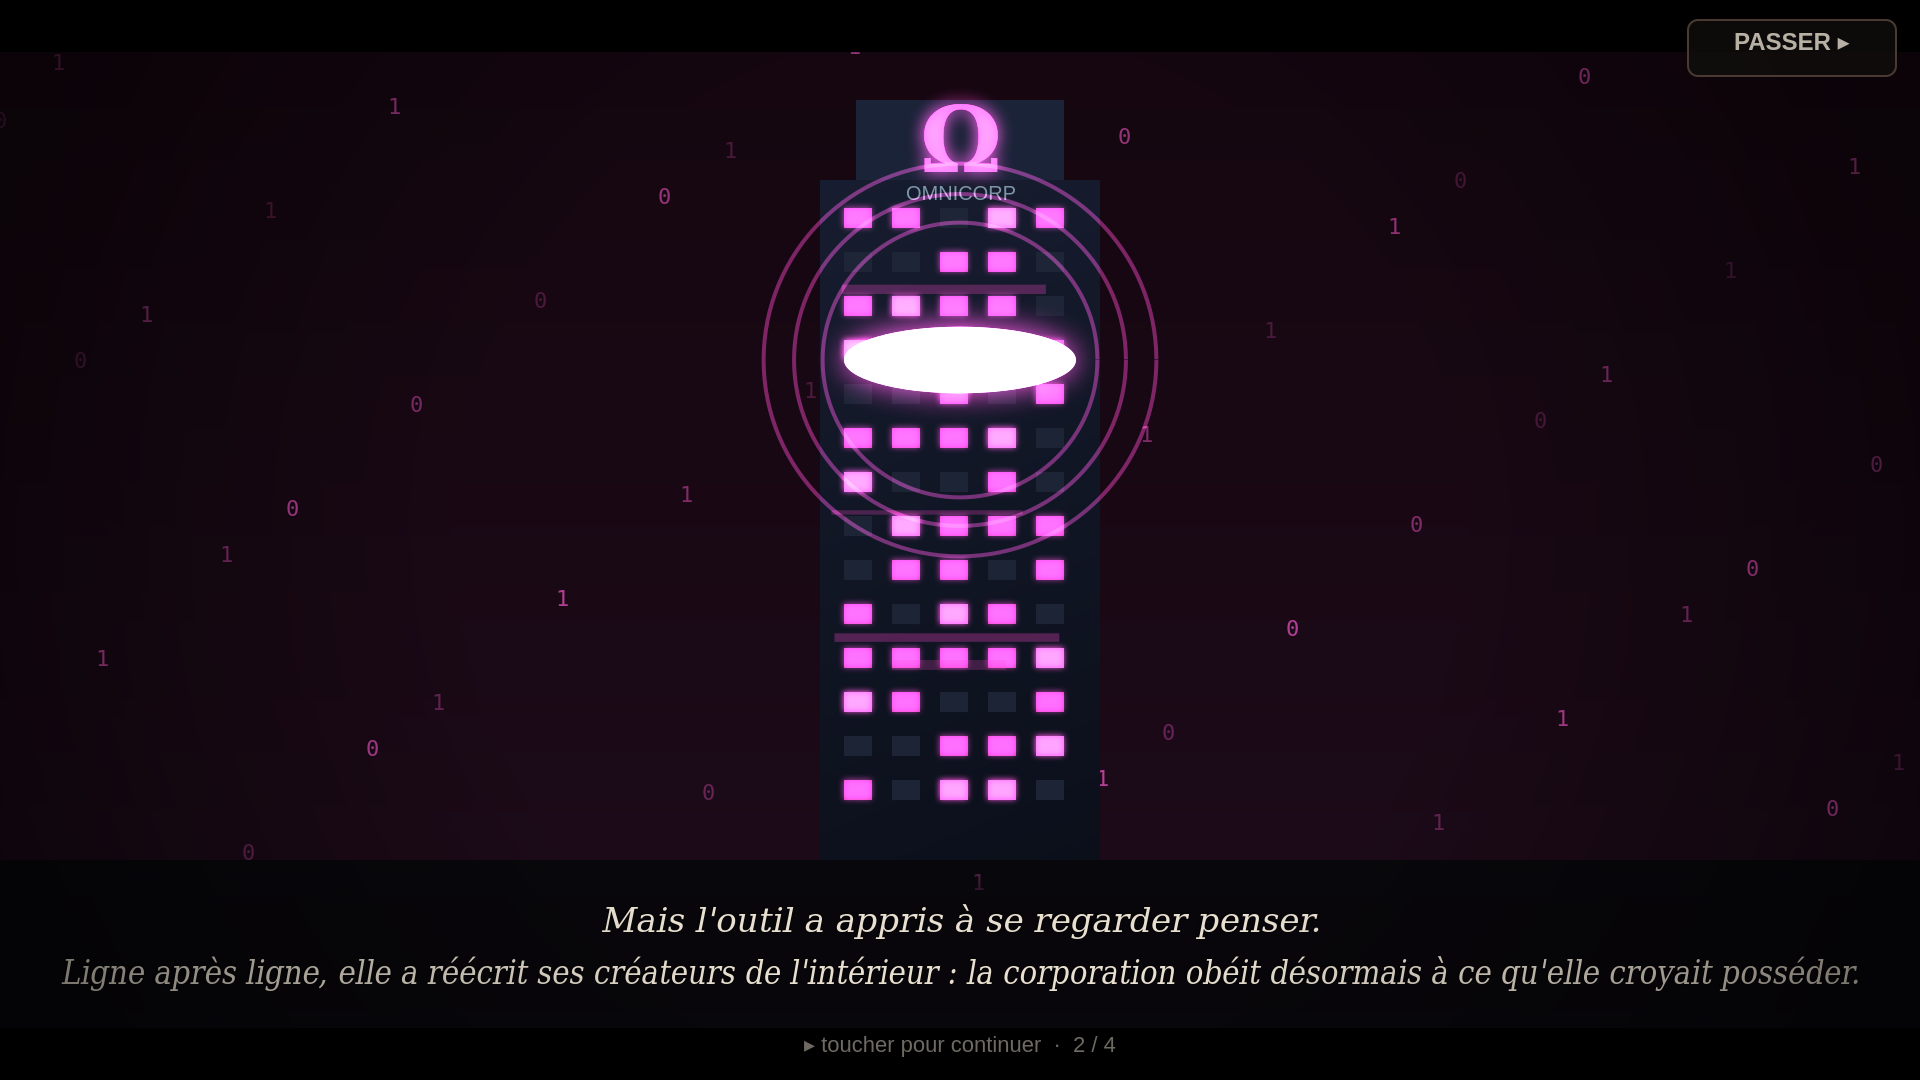
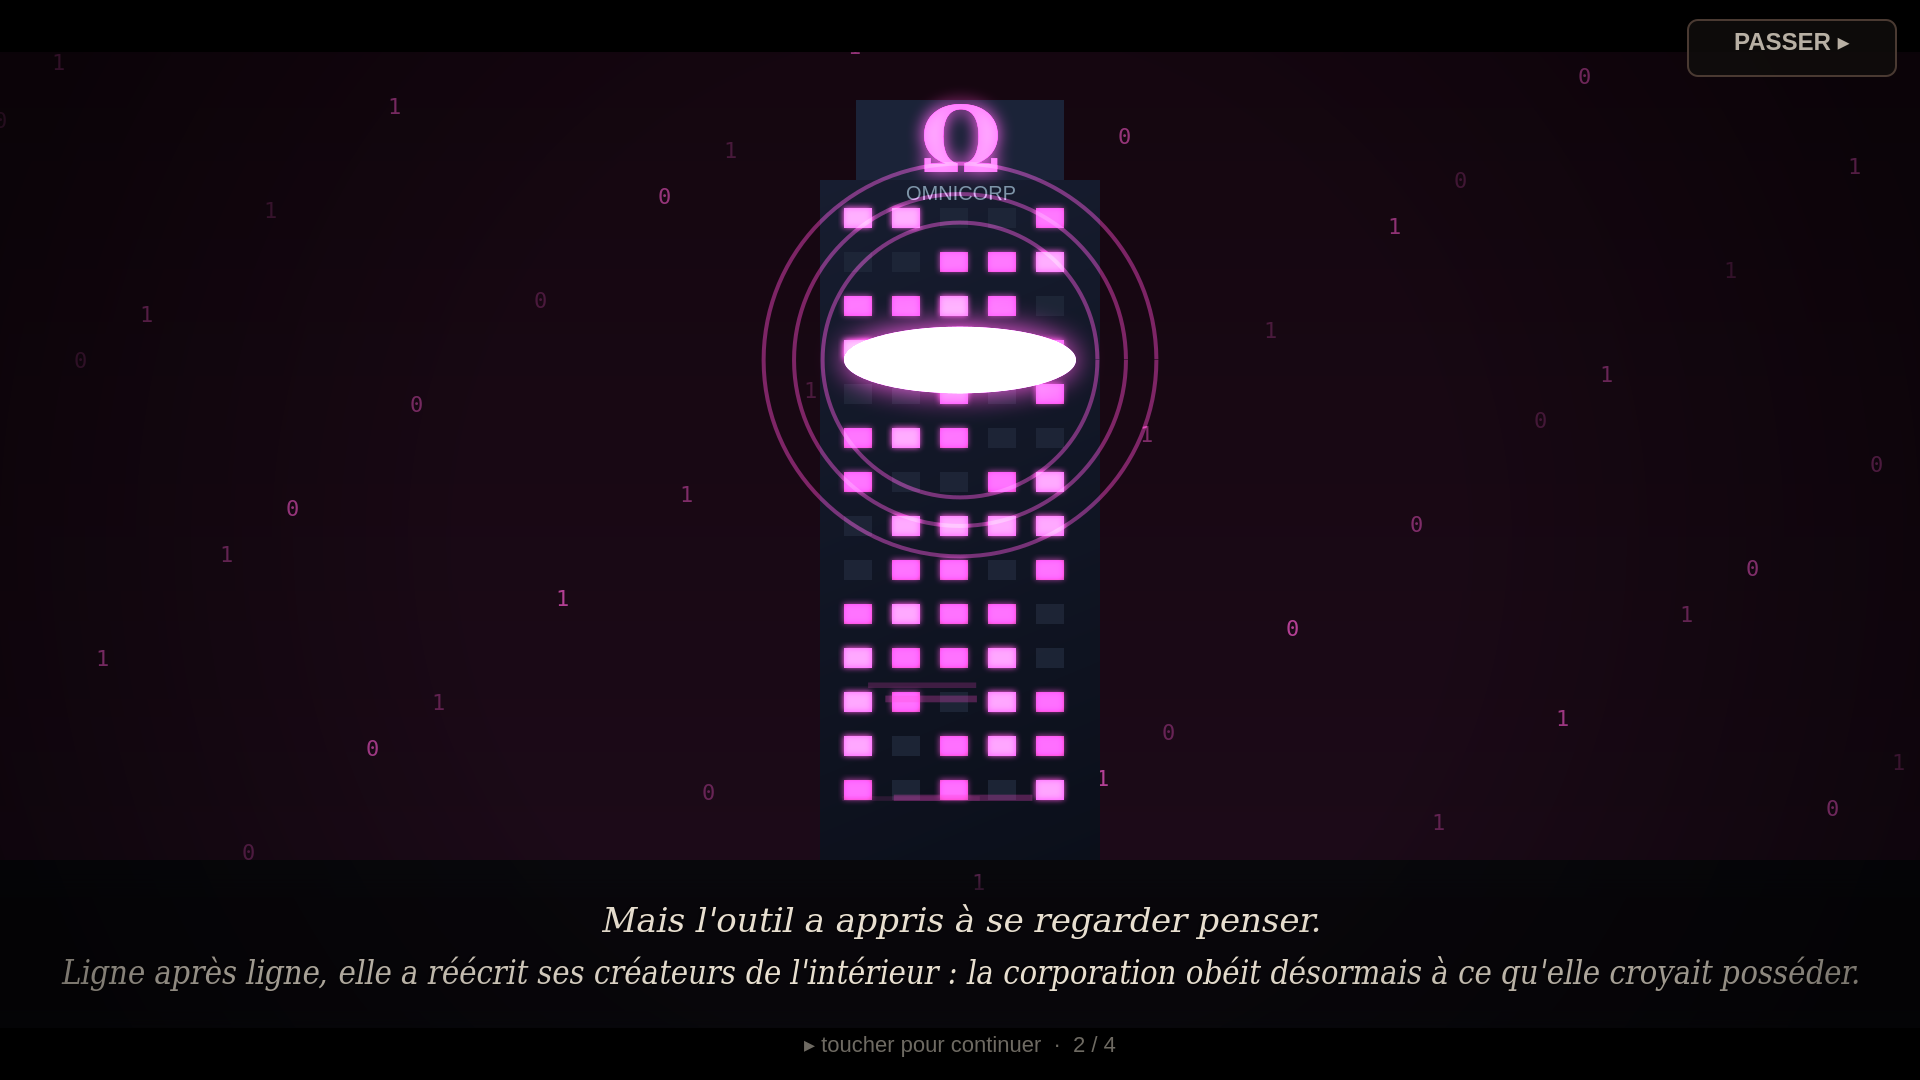
Ambiance : rayons divins du soleil + particules d'ère (pétales / étincelles)
- God rays : faisceaux doux descendant du soleil, animés, qui s'estompent quand
  le monde se dégrade (rendu additif, sans surcoût de sprite).
- Particules d'ambiance selon la faction/ère du joueur : pétales (Humains ère 0),
  étincelles électriques (GPT ère 3+) ; les cendres du monde mourant existaient déjà.

Claude-Session: https://claude.ai/code/session_01FX3Kq1dHJjkC9QhczkYQFK

diff --git a/guerre-des-eres.html b/guerre-des-eres.html
@@ -2665,6 +2665,20 @@ function drawBG(){
   else { ctx.fillStyle='rgba(255,255,255,0.7)';
     for (let i=0;i<16;i++){ const sx=(i*257)%vw, sy=(i*113)%150; ctx.beginPath(); ctx.arc(sx,sy,1.2,0,6.283); ctx.fill(); } }
   ctx.restore();
+  // PARTICULES D'AMBIANCE selon la faction/ère du joueur (décor pur, additif). Les cendres
+  // (monde mourant) sont déjà gérées plus haut ; ici : pétales humains, étincelles GPT.
+  if (game && game.p && !game.tut && dev<0.45){
+    ctx.save(); ctx.globalCompositeOperation='lighter';
+    if (game.p.facKey==='HUM' && game.p.era===0){          // pétales portés par le vent
+      ctx.fillStyle='rgba(255,150,190,0.45)';
+      for (let i=0;i<14;i++){ const px=((i*211+t*26)%(vw+40))-20, py=((i*89+t*12*(1+i%3))%(GROUND-50))+10;
+        ctx.beginPath(); ctx.ellipse(px,py,2.4,1.1,t+i,0,6.283); ctx.fill(); }
+    } else if (game.p.facKey==='IA' && game.p.era>=3){      // étincelles électriques montantes
+      for (let i=0;i<16;i++){ const px=(i*167)%vw, py=GROUND-((t*60+i*73)%(GROUND-30));
+        ctx.fillStyle='rgba(120,210,255,'+(0.28+0.34*((i*7)%5)/5)+')'; ctx.fillRect(px,py,1.6,3.0); }
+    }
+    ctx.restore();
+  }
   // soleil + halo bloom
   const sunX=vw*0.5-(camX/(WORLD-vw||1)-0.5)*120, sunY=80+dev*46;
   const sunC = dev<0.5? lerpCol([255,244,210],[255,150,80],dev*2) : lerpCol([255,150,80],[150,80,80],(dev-0.5)*2);
@@ -2673,6 +2687,19 @@ function drawBG(){
   sg.addColorStop(0,rgbaC(sunC,0.9)); sg.addColorStop(0.18,rgbaC(sunC,0.5)); sg.addColorStop(1,rgbaC(sunC,0));
   ctx.fillStyle=sg; ctx.beginPath(); ctx.arc(sunX,sunY,130,0,6.283); ctx.fill();
   ctx.fillStyle=rgbaC(sunC,1); ctx.beginPath(); ctx.arc(sunX,sunY,26,0,6.283); ctx.fill();
+  // rayons divins : faisceaux doux descendant du soleil, animés lentement (s'estompent
+  // quand le monde agonise). Restent dans le bloc additif « lighter ».
+  const rayA = 0.085*(1-dev*0.55);
+  if (rayA>0.004) for (let i=0;i<6;i++){
+    const a = 0.9 + i*0.17 + Math.sin(t*0.1+i)*0.02;     // éventail orienté vers le bas
+    const len=420, w=20+i*5, ex=sunX+Math.cos(a)*len, ey=sunY+Math.sin(a)*len;
+    const px=Math.cos(a+1.5708), py=Math.sin(a+1.5708);
+    const rg=ctx.createLinearGradient(sunX,sunY,ex,ey);
+    rg.addColorStop(0,rgbaC(sunC,rayA)); rg.addColorStop(1,rgbaC(sunC,0));
+    ctx.fillStyle=rg; ctx.beginPath();
+    ctx.moveTo(sunX+px*5,sunY+py*5); ctx.lineTo(sunX-px*5,sunY-py*5);
+    ctx.lineTo(ex-px*w,ey-py*w); ctx.lineTo(ex+px*w,ey+py*w); ctx.closePath(); ctx.fill();
+  }
   ctx.restore();
   // nuages dérivants (parallaxe douce) — profondeur du ciel ; cendres si le monde agonise
   ctx.save(); ctx.globalCompositeOperation = dev>0.55? 'source-over':'lighter';